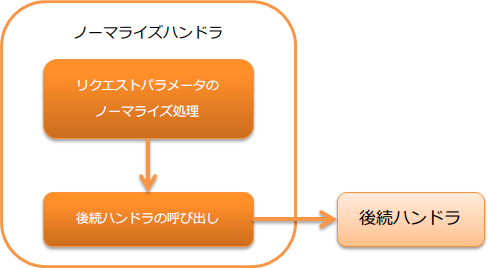
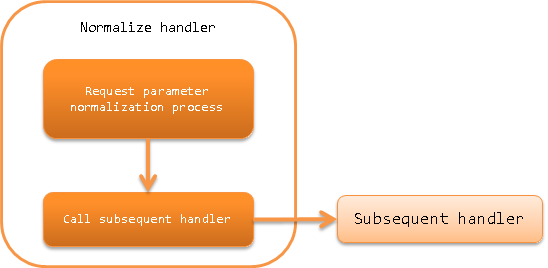
ノーマライズハンドラページを英語化

diff --git a/en/application_framework/application_framework/handlers/web/normalize_handler.rst b/en/application_framework/application_framework/handlers/web/normalize_handler.rst
@@ -1,27 +1,27 @@
 .. _normalize_handler:
 
-ノーマライズハンドラ
+Normalize Handler
 ==================================================
-.. contents:: 目次
+.. contents:: Table of contents
   :depth: 3
   :local:
 
-クライアントから送信されるリクエストパラメータをノーマライズするハンドラ。
+This handler normalizes the request parameters sent by the client.
 
-本ハンドラでは、以下の処理を行う。
+This handler performs the following process.
 
-* リクエストパラメータのノーマライズ処理
+* Normalization process of request parameter
 
-処理の流れは以下のとおり。
+The process flow is as follows.
 
 .. image:: ../images/NormalizationHandler/flow.png
   :scale: 75
-  
-ハンドラクラス名
+
+Handler class name
 --------------------------------------------------
 * :java:extdoc:`nablarch.fw.web.handler.NormalizationHandler`
 
-モジュール一覧
+Module list
 --------------------------------------------------
 .. code-block:: xml
 
@@ -30,41 +30,41 @@
     <artifactId>nablarch-fw-web</artifactId>
   </dependency>
 
-制約
+Constraints
 ------------------------------
-:ref:`multipart_handler` より後ろに配置すること
-  このハンドラはリクエストパラータにアクセスする。
-  このため、 :ref:`multipart_handler` よりも後ろに設定する必要がある。
+Place this handler after the :ref:`multipart_handler`
+  This handler accesses the request parameters.
+  Therefore, this handler must be configured after the :ref:`multipart_handler`.
 
-標準で提供しているノーマライズ処理
+Normalization process provided as standard
 --------------------------------------------------
-標準では、以下のノーマライズ処理を提供している。
+The following normalization process is provided as standard.
 
-* リクエストパラメータの前後のホワイトスペースを除去するノーマライザ( :java:extdoc:`TrimNormalizer <nablarch.fw.web.handler.normalizer.TrimNormalizer>` ) [#whitespace]_
+* Normalizer that removes white space before and after the request parameter ( :java:extdoc:`TrimNormalizer <nablarch.fw.web.handler.normalizer.TrimNormalizer>` ) [#whitespace]_
 
 
-ノーマライズ処理を追加する
+Add the normalization process
 --------------------------------------------------
-このハンドラはデフォルト動作で、リクエストパラメータの前後のホワイトスペース [#whitespace]_ を除去するノーマライザが有効となっている。
+This handler is the default action, and the normalizer that removes the white space [#whitespace]_ before and after the request parameter is enabled.
 
-プロジェクト要件で、ノーマライズ処理を追加する場合には、 :java:extdoc:`Normalizer <nablarch.fw.web.handler.normalizer.Normalizer>` の実装クラスを作成し、本ハンドラに設定する。
+When the normalization process is added to the project requirements, create an implementation class :java:extdoc:`Normalizer <nablarch.fw.web.handler.normalizer.Normalizer>` and configure in this handler.
 
-以下に例を示す。
+An example is shown below.
 
-ノーマライザの実装例
+Implementation example of normalizer
   .. code-block:: java
 
     public class SampleNormalizer implements Normalizer {
 
         @Override
         public boolean canNormalize(final String key) {
-          // パラメータのキー値にnumが含まれた場合は、そのパラメータをノーマライズする
+          // If num is included in the key value of the parameter, normalize the parameter
           return key.contains("num");
         }
 
         @Override
         public String[] normalize(final String[] value) {
-          // パラメータ中のカンマ(,)を除去する
+          // Remove the comma (,) in the parameter
           final String[] result = new String[value.length];
           for (int i = 0; i < value.length; i++) {
               result[i] = value[i].replace(",", "");
@@ -73,10 +73,10 @@
         }
     }
 
-コンポーネント設定ファイルに定義する
-  以下の設定例のように、適用したいノーマライザを設定する。
-  複数のノーマライザを設定した場合、より上に設定したものから順次ノーマライズ処理が実行される。
-  このため、ノーマライズ処理に順序性がある場合には、設定順に注意すること。
+Define in the component configuration file
+  Configure the normalizer to be applied as shown in the following configuration example.
+  When multiple normalizers are configured, the normalizing process is executed sequentially from the one configured higher.
+  Therefore, if the normalization process has order, pay attention to the configuration order.
 
   .. code-block:: xml
 
@@ -90,11 +90,11 @@
     </component>
 
 .. tip::
-  ノーマライザを設定せずに、以下のようにハンドラを設定した場合、デフォルトで提供される前後のホワイトスペースを除去するノーマライザが自動的に適用される。
+  When the handler is configured as follows without configuring the normalizer, a normalizer that removes the leading and trailing whitespace provided by default is automatically applied.
 
   .. code-block:: xml
 
     <component class="nablarch.fw.web.handler.NormalizationHandler" />
 
 
-.. [#whitespace] ホワイトスペースの定義は :java:extdoc:`Character#isWhitespace <java.lang.Character.isWhitespace(int)>` を参照
+.. [#whitespace] For the definition of whitespace, see :java:extdoc:`Character#isWhitespace <java.lang.Character.isWhitespace(int)>`
